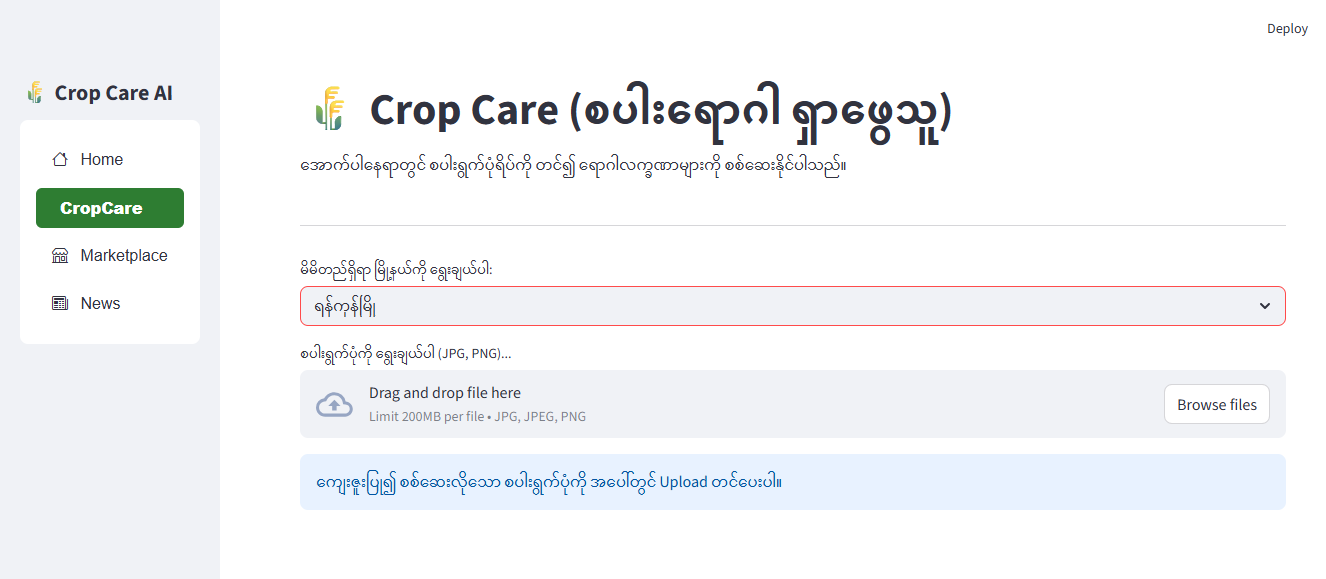
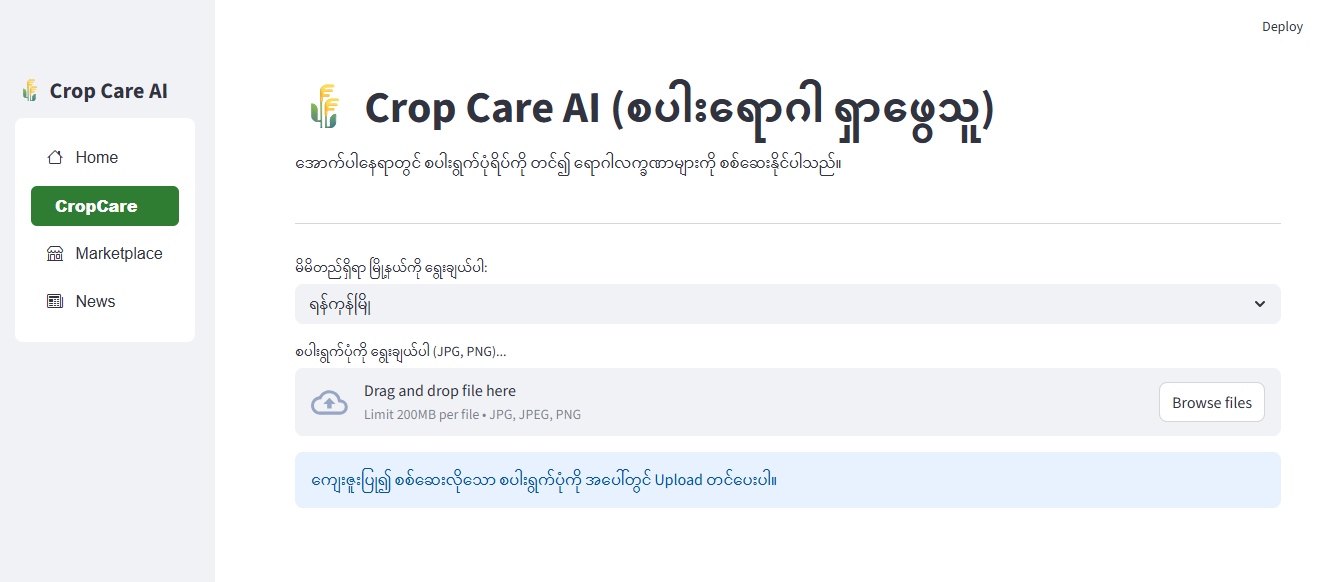
update readme

diff --git a/src/CropCare.py b/src/CropCare.py
@@ -78,7 +78,7 @@ def app():
     </style>
     """, unsafe_allow_html=True)
 
-    st.title("🌾 Crop Care (စပါးရောဂါ ရှာဖွေသူ)")
+    st.title("🌾 Crop Care AI (စပါးရောဂါ ရှာဖွေသူ)")
     st.markdown("အောက်ပါနေရာတွင် စပါးရွက်ပုံရိပ်ကို တင်၍ ရောဂါလက္ခဏာများကို စစ်ဆေးနိုင်ပါသည်။")
     st.write("---")
 
